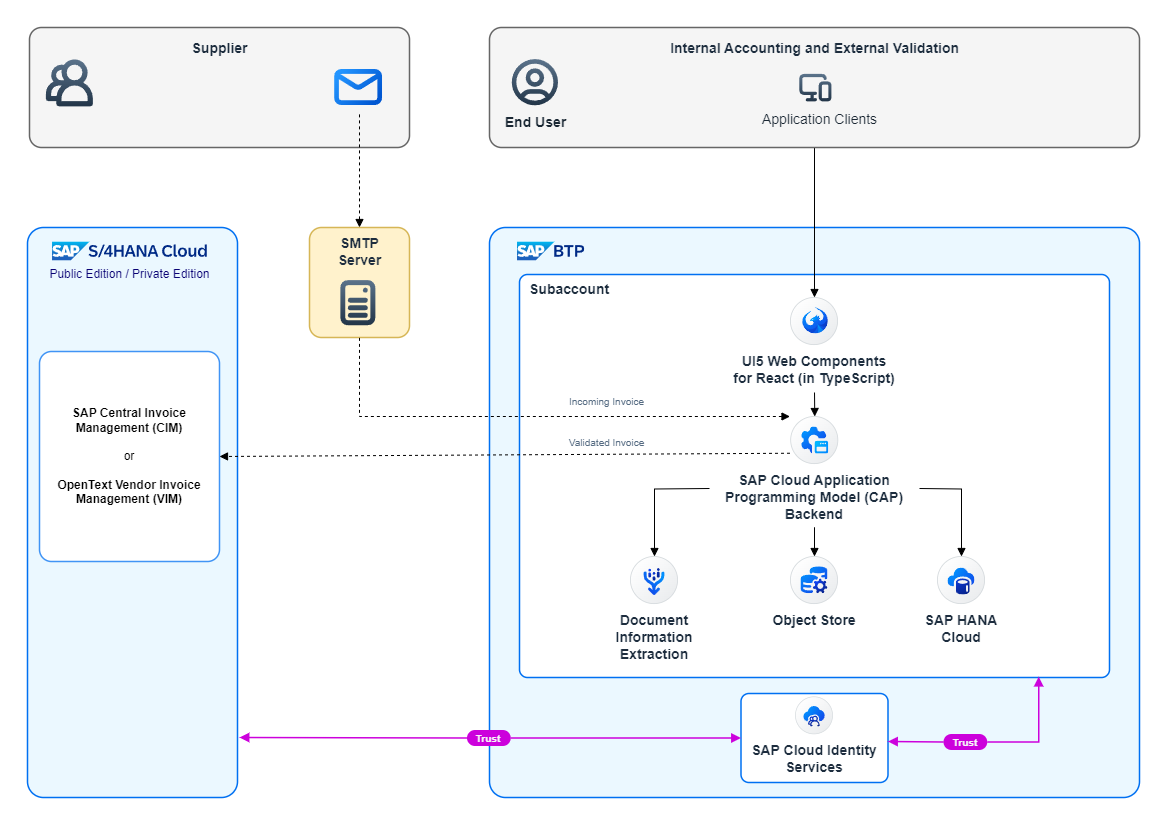
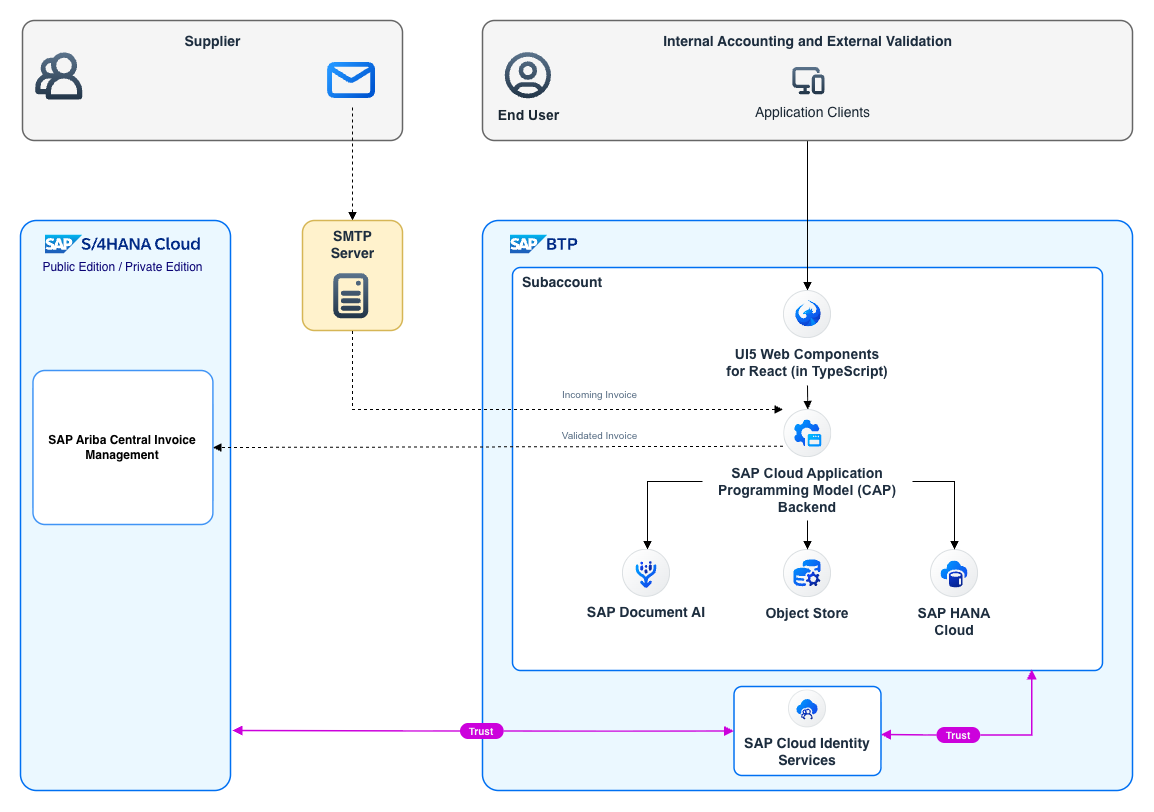
Merge pull request #16 from SAP-samples/name-change
Change name to new name SAP Document AI

Pull request: Change name to new name SAP Document AI
- **change service name to new name SAP Document AI**
- **switch to new name SAP Document AI in diagrams and remove mention of deprecated OpenText**

diff --git a/docs/tutorial/1-intro/3-Interaction.md b/docs/tutorial/1-intro/3-Interaction.md
@@ -1,8 +1,8 @@
 ## Application Interaction
 
-This section provides an in-depth explanation of how the **SAP Cloud Application Programming Model (CAP)** backend interacts with the different services on the **SAP Business Technology Platform (SAP BTP)**, focusing especially on the **SAP Document Information Extraction (DOX)** Service.
+This section provides an in-depth explanation of how the **SAP Cloud Application Programming Model (CAP)** backend interacts with the different services on the **SAP Business Technology Platform (SAP BTP)**, focusing especially on the **SAP Document AI** Service.
 
-[<img src="images\Solution_Diagram_interaction_new_cache.drawio.png" width="1200"/>](images/Solution_Diagram_interaction_new_cache.drawio.png)
+[<img src="images\Solution_Diagram_Interaction.png" width="1200"/>](images/Solution_Diagram_Interaction.png)
 _**Picture:** Sequence Interactions of Invoice Validation_
 
 As illustrated in the picture above, the application's core purpose is to validate invoices received via e-mail or physical mail - scanned into a PDF format file. The invoices are stored via the **BTP Object Store** Service in an arbitrary object store, e.g. **Amazon S3 Object Store**, ensuring that a persistent version of each invoice is available.
@@ -10,13 +10,13 @@ As illustrated in the picture above, the application's core purpose is to valida
 The **Sequence of Interactions** looks like:
 
 1. The **SAP Cloud Application Programming Model (CAP)** backend fetches the invoices from the **BTP Object Store** Service, marking the beginning of the sequence of interactions.
-2. After being fetched, each invoice is uploaded to the **SAP Document Information Extraction (DOX)** Service. With its powerful API, the service leverages **Generative Artificial Intelligence (GenAI)** to extract structured and meaningful data from documents such as invoices, going far beyond typical **Optical Character Recognition (OCR)** scanned text documents.
-3. The **SAP Document Information Extraction (DOX)** Service processes the invoice and returns a unique job ID along with a status code indicating that the extraction is in progress.
-4. The **SAP Document Information Extraction (DOX)** Service' job ID is stored in the **SAP HANA Cloud** Database. This database holds all invoice related information, including the job IDs, metadata of the invoices, and invoice correction data, thereby enabling retrieval of document extraction later on.
+2. After being fetched, each invoice is uploaded to the **SAP Document AI** Service. With its powerful API, the service leverages **Generative Artificial Intelligence (GenAI)** to extract structured and meaningful data from documents such as invoices, going far beyond typical **Optical Character Recognition (OCR)** scanned text documents.
+3. The **SAP Document AI** Service processes the invoice and returns a unique job ID along with a status code indicating that the extraction is in progress.
+4. The **SAP Document AI** Service' job ID is stored in the **SAP HANA Cloud** Database. This database holds all invoice related information, including the job IDs, metadata of the invoices, and invoice correction data, thereby enabling retrieval of document extraction later on.
 5. Once an invoice has been processed, it is available for use in the front-end, which then calls the **SAP Cloud Application Programming Model (CAP)** backend on demand to get the invoice information extraction results.
 6. The backend then requests the job ID from the **SAP HANA Cloud** Database using the invoice ID.
-7. With the job ID of the invoice the backend then requests the invoice information extraction data from the **SAP Document Information Extraction (DOX)** Service.
-8. The **SAP Document Information Extraction (DOX)** Service returns the invoice information extraction in a structured JSON format.
+7. With the job ID of the invoice the backend then requests the invoice information extraction data from the **SAP Document AI** Service.
+8. The **SAP Document AI** Service returns the invoice information extraction in a structured JSON format.
 9. The extracted invoice information is sent back to the application front end.
 
 The extractions then populate invoice values in the UI, enhancing the user experience during invoice validation. If the extraction is not finished, the invoice appears greyed out, indicating it's not ready yet for validation.

diff --git a/docs/tutorial/2-setup/3-InitialDeployment.md b/docs/tutorial/2-setup/3-InitialDeployment.md
@@ -46,23 +46,23 @@ Make sure a HANA CLOUD instance is mapped to your BTP space, so that there is a 
 
 7. Within the BTP Cockpit inside your subaccount, create a [role collection](https://cap.cloud.sap/docs/node.js/authentication#auth-in-cockpit) _DOX\_Mission\_Administrator_ and add the _Administrator_ role to it; then assign yourself to the collection. (The role was precreated during the deployment and you will find it in the roles list under _Security_ in your subaccount, if you filter by _mission_.)
 
-8. Last but not least, the app needs a destination to connect to the DOX service.
+8. Last but not least, the app needs a destination to connect to the SAP Document AI service.
 First, create a [service key](https://help.sap.com/docs/service-manager/sap-service-manager/creating-service-keys-in-cloud-foundry?version=Cloud&locale=en-US)
-for the DOX service instance which was created during deployment.  To then create the destination, log in to your SAP BTP cockpit and navigate to your
+for the SAP Document AI service instance which was created during deployment.  To then create the destination, log in to your SAP BTP cockpit and navigate to your
 subaccount. In the navigation area therein, go to Connectivity -> Destinations and select _Create Destination_. The name of the destination
 needs to be precisely _DOX_PREMIUM_INVOICE_VALIDATION_, this is what the app is going to look for. Configure the destination as shown below and enter the
 credentials provided in the service key.
 
 ```
 Name: DOX_PREMIUM_INVOICE_VALIDATION
-Description: Connection to Document Information Extraction (DOX) service
-URL: <URL-PROPERTY-IN-DOX-SERVICE-KEY>/document-information-extraction/v1 # make sure to add /v1!
+Description: Connection to SAP Document AI service
+URL: <URL-PROPERTY-IN-SERVICE-KEY>/document-information-extraction/v1 # make sure to add /v1!
 Type: HTTP
 ProxyType: Internet
 Authentication: OAuth2ClientCredentials
-tokenServiceURL: <AUTH-URL-IN-DOX-SERVICE-KEY>/oauth/token
-clientId: <CLIENT-ID-IN-DOX-SERVICE-KEY>
-clientSecret: <CLIENT-SECRET-IN-DOX-SERVICE-KEY>
+tokenServiceURL: <AUTH-URL-IN-SERVICE-KEY>/oauth/token
+clientId: <CLIENT-ID-IN-SERVICE-KEY>
+clientSecret: <CLIENT-SECRET-IN-SERVICE-KEY>
 # Additional Properties:
 URL.headers.Content-Type: application/json
 HTML5.DynamicDestination: true

diff --git a/docs/tutorial/1-intro/2-Improvements.md b/docs/tutorial/1-intro/2-Improvements.md
@@ -1,6 +1,6 @@
 ## UI Improvements
 
-The **SAP Document Information Extraction (DOX)** Service is used to extract values of invoices in a structured way - invoices that are being corrected, contain the following information per invoice entry:
+The **SAP Document AI** Service is used to extract values of invoices in a structured way - invoices that are being corrected, contain the following information per invoice entry:
 
 1. Position
 2. Description (for the entry of the invoice)
@@ -12,10 +12,10 @@ The **SAP Document Information Extraction (DOX)** Service is used to extract val
 From the invoice validation perspective, the user has to read the values on the PDF and compare these with the actual delivered positions. If anything does not match, the user needs to enter the values on the PDF and then the corrected values in a form to indicate that a correction was made.
 
 [<img src="images\without_dox_service.gif" width="1200"/>](images/without_dox_service.gif)
-_**Picture:** Invoice Correction without the use of the SAP Document Information Extraction (DOX) Service_
+_**Picture:** Invoice Correction without the use of the SAP Document AI Service_
 
-Without the **SAP Document Information Extraction (DOX)** Service, all the data had to be filled out manually.
-With the **SAP Document Information Extraction (DOX)** Service, the data has already been extracted. With that, an overlay button on top of each position in an invoice can be shown. Upon clicking this button, the values can be filled out automatically and the user only needs to enter the revised values.
+Without the **SAP Document AI** Service, all the data had to be filled out manually.
+With the **SAP Document AI** Service, the data has already been extracted. With that, an overlay button on top of each position in an invoice can be shown. Upon clicking this button, the values can be filled out automatically and the user only needs to enter the revised values.
 
 [<img src="images\with_dox_service.gif" width="1200"/>](images/with_dox_service.gif)
-_**Picture:** Invoice Correction with SAP Document Information Extraction (DOX) Service integration_
+_**Picture:** Invoice Correction with SAP Document AI Service integration_

diff --git a/docs/tutorial/3-integrate/2-Outbound.md b/docs/tutorial/3-integrate/2-Outbound.md
@@ -1,13 +1,9 @@
 ## Outbound
 
-After successful validation of the invoice, this scenario could be connected upstream of **SAP Central Invoice Management (CIM)** or **OpenText Vendor Invoice Management (VIM)** or any other comparable solution to complete the payment process afterwards.
+After successful validation of the invoice, this scenario could be connected upstream of **SAP Central Invoice Management (CIM)** to complete the payment process afterwards.
 
-To simulate the upstream you could download a PDF snapshot file (via the `Download Snapshot` button) of the validated invoice an transfer it to the dedicated file upload directory which could be accessed by **SAP Central Invoice Management (CIM)** or **OpenText Vendor Invoice Management (VIM)** or other comparable solutions.
+To simulate the upstream you could download a PDF snapshot file (via the `Download Snapshot` button) of the validated invoice an transfer it to the dedicated file upload directory which could be accessed by **SAP Central Invoice Management (CIM)**.
 
 In the current source code the `Accept` and `Reject` buttons are _only_ triggering notifications - in a productive scenario this behaviour has to be enhanced to trigger a real upstream scenario.
 
-See also:
-
-- [SAP Central Invoice Management](https://help.sap.com/docs/CENTRAL_INVOICE_MANAGEMENT/76e9f80544ca4990b6d25b79a1d0602f/43495ee9483a42b1a7ce74001ea0847b.html)
-
-- [OpenText Vendor Invoice Management](https://www.opentext.com/products/vendor-invoice-management-for-sap-solutions)
+See also: [SAP Ariba Central Invoice Management](https://www.sap.com/products/spend-management/centralized-invoice-processing-software.html)

diff --git a/docs/tutorial/1-intro/1-Scenario.md b/docs/tutorial/1-intro/1-Scenario.md
@@ -6,7 +6,7 @@ This part offers a comprehensive overview of the invoice validation scenario, al
 
 For multiple invoice types (e.g. construction invoices) the invoice validation or invoice check is a complex process which could often need additional domain expertise from different personas - for example external domain experts. The provided **Invoice Validation** sample scenario on **SAP Business Technology Platform (BTP)** is designed to exactly fulfil all these needs.
 
-The application enables to do extensive and complex invoice validation outside **SAP S/4HANA Cloud (Private Edition / Public Edition)** on **SAP Business Technology Platform (BTP)** for experienced domain experts in a proper and reliable workflow. It could replace the current process which is manual, error prone and not transparent to all stakeholders, like the accounting team members responsible for payments and all external validators. Due to the **SAP Document Information Extraction (DOX)** Service assistance behind the scenes is in place, the validation work is further simplified. Furthermore, this scenario could be connected upstream of **SAP Central Invoice Management (CIM)** or **OpenText Vendor Invoice Management (VIM)** or other comparable solutions to complete the payment process afterwards.
+The application enables to do extensive and complex invoice validation outside **SAP S/4HANA Cloud (Private Edition / Public Edition)** on **SAP Business Technology Platform (BTP)** for experienced domain experts in a proper and reliable workflow. It could replace the current process which is manual, error prone and not transparent to all stakeholders, like the accounting team members responsible for payments and all external validators. Due to the **SAP Document AI** Service assistance behind the scenes is in place, the validation work is further simplified. Furthermore, this scenario could be connected upstream of **SAP Ariba Central Invoice Management** to complete the payment process afterwards.
 
 ## Process Flow
 
@@ -21,10 +21,10 @@ _**Picture:** Process Flow of Invoice Validation_
 The main **Process Steps** are:
 
 1. The invoice arrives via email as **PDF attachment** or via **postal letter**, which will be scanned into a PDF file.
-2. The invoice PDF file will be preprocessed by **SAP Document Information Extraction (DOX)** Service.
+2. The invoice PDF file will be preprocessed by **SAP Document AI** Service.
 3. The invoice will be dispatched to the correct processor and afterwards validated by an **Accounting Team Member**. In case of additional expert domain knowledge is necessary, then the invoice could be forwarded to an **Internal** or **External Validator**.
 4. The Internal or External Validator is doing an detailed invoice check, e.g. doing **Position Corrections**, **Deductions** and **Retentions**. After he finished his work, he sends back the invoice to the Accounting team member.
-5. The Accounting Team Member is doing a last double check and forwards the validated invoice to **SAP Central Invoice Management (CIM)**, **OpenText Vendor Invoice Management (VIM)** or any other comparable solution.
+5. The Accounting Team Member is doing a last double check and forwards the validated invoice to **SAP Ariba Central Invoice Management**.
 
 ## Solution Diagram
 

diff --git a/docs/tutorial/2-setup/1-Subaccount.md b/docs/tutorial/2-setup/1-Subaccount.md
@@ -26,7 +26,7 @@ It adds the following entitlements, in addition to the ones which are enabled by
 | SAP HANA Cloud                        | hana             |
 | SAP HANA Schemas & HDI Containers     | hdi-shared       |
 | Object Store                          | s3-standard      |
-| Document Information Extraction       | premium_edition  |
+| SAP Document AI                       | premium_edition  |
 | Cloud Foundry Runtime                 | MEMORY           |
 
 Your BTP space will need at least 4 GB of memory to run the apps which you will deploy later.